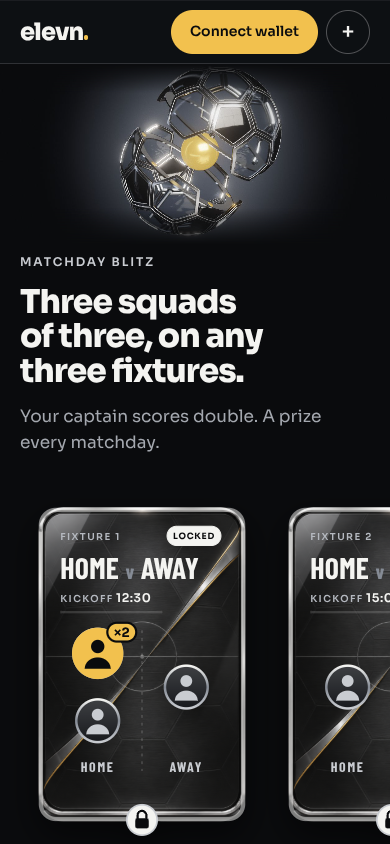
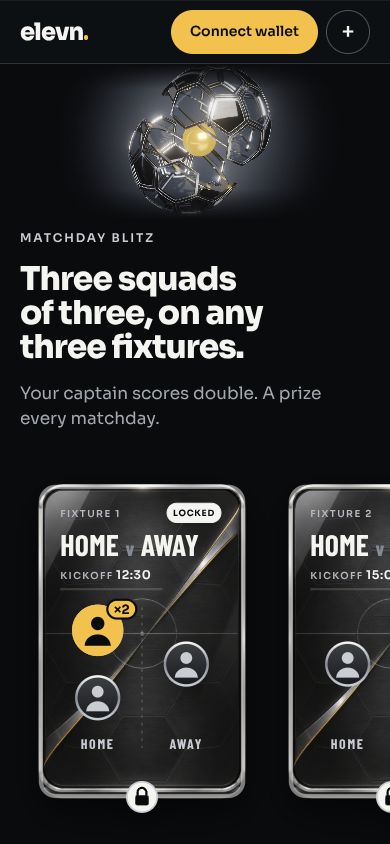
Home page: Blitz cards show one player from each club (home and away columns); phone view rebuilt as one block per beat
Claude-Session: https://claude.ai/code/session_012GbKymxq8Mwy7J7Kp4CrmR

diff --git a/docs/design/prototype/home/home.css b/docs/design/prototype/home/home.css
@@ -238,8 +238,8 @@ ul, ol { list-style: none; }
     mask-image: linear-gradient(90deg, transparent calc(100% - 96 * var(--u)), #000 calc(100% - 40 * var(--u))), linear-gradient(180deg, transparent, #000 16%, #000 80%, transparent);
     -webkit-mask-composite: source-in; mask-composite: intersect; }
   #two::before { background-image: url("poster/beat-3.jpg"); --s: 84; --fx: .615; --fy: .525; --bh: 84; }
-  #blitz::before { background-image: url("poster/beat-4.jpg"); --s: 86; --fx: .668; --fy: .355; --bh: 46; }
-  #draft::before { background-image: url("poster/beat-5.jpg"); --s: 78; --fx: .68; --fy: .345; --bh: 46; }
+  #blitz::before { background-image: url("poster/beat-4.jpg"); --s: 76; --fx: .668; --fy: .355; --bh: 40; }
+  #draft::before { background-image: url("poster/beat-5.jpg"); --s: 70; --fx: .68; --fy: .345; --bh: 40; }
   #access::before { background-image: url("poster/beat-6.jpg"); --s: 100; --fx: .625; --fy: .585; --bh: 74; }
 
   .words, .js .words, .js .beat.on .words { position: static; opacity: 1 !important; visibility: visible; transform: none; margin: 0; padding-top: 8px; width: min(var(--copy), 100%); transition: none; }

diff --git a/docs/design/LESSONS.md b/docs/design/LESSONS.md
@@ -224,3 +224,9 @@ Reporting
   any HTML change, not only CSS ones.
 - Rule for next time: a full-page capture draws a fixed bar wherever the first screen ended. Hide
   or un-fix fixed bars for full-page shots, and discount contrast readings taken under them.
+
+## 2026-11-18 · home-cards agent · Blitz "one from each club" rule and the home page phone view
+- Did: the three fixture cards now stand their players in a HOME column and an AWAY column (2+1, 1+2, 2+1, captain on either side) with Barlow Condensed labels under the columns; the phone view (900px and under) is one block per beat: that beat's still of the ball on top, words below, cards and packs in a sideways row with snap, "+" menu button in the bar.
+- How: the side labels went at the bottom of the card because the artwork's stripe crosses the top right; the phone stills are the existing `poster/beat-N.jpg` files placed with CSS variables (picture height, ball position, band height), so no script change was needed. Tap gives the hover state through focus.
+- Changed: text over a dimmed live ball was replaced by stills above the text (lowest contrast now 5.55:1, measured on pixels); a contrast script that samples a button's whole box reads the page behind its rounded corners, so sample inside the pill.
+- Rule for next time: on a phone put pictures above the words, not behind them; and when another agent is editing the scripts at the same time, a capture that times out is retried before anything is "fixed".
